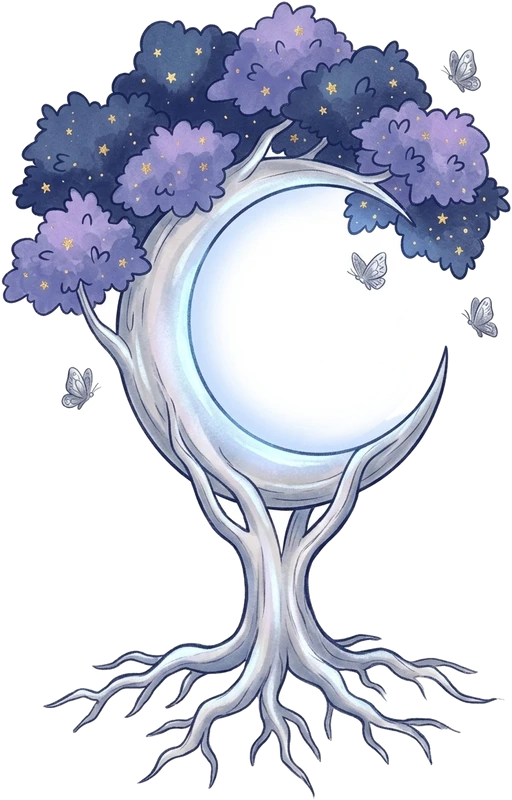
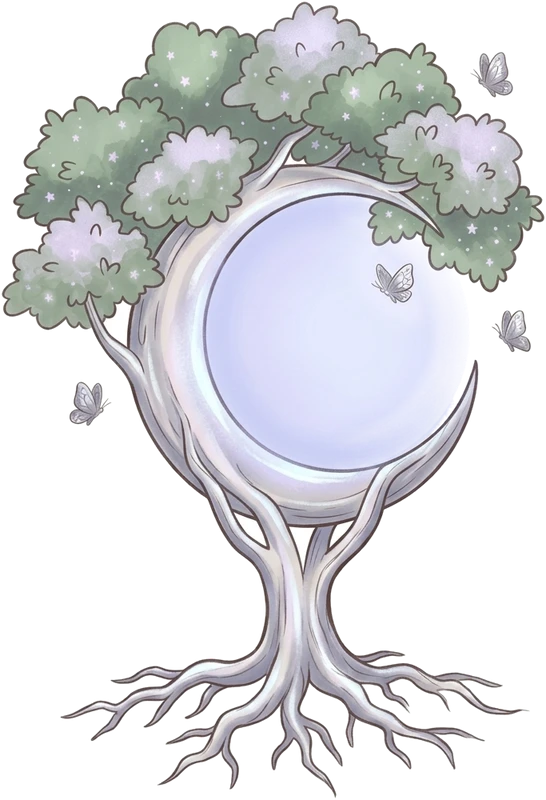
Build 400: Moon Tree redrawn in the game's style + a living night sky in the moon (Maria: «выглядит странно, будто не от сюда», then «Мне не нравится это белое в луне. Оно должно как-то анимироваться ... Крутится там внутри него»): new picture (SYNTX banana2 with the oak and the gold tree as style r

diff --git a/js/game.js b/js/game.js
@@ -2,12 +2,12 @@
 import {
   OFFLINE_CAP_SEC, MAX_DESKS, MAX_ITEM_LEVEL, MAX_TEACHER_LEVEL, MAX_TIME_LEVEL,
   CLASSES, SPECIES, NAMES, MISSIONS, WORLDS, WORLD, META,
-} from './data.js?v=399';
-import { EMOJI_RE, emojiImage, preloadEmoji, watchEmoji, emojiHtml } from './emoji.js?v=399';
-import { initMinigame } from './minigame.js?v=399';
-import { initChests } from './chests.js?v=399';
-import { initLore } from './lore.js?v=399';
-import { initAvatar } from './avatar.js?v=399';
+} from './data.js?v=400';
+import { EMOJI_RE, emojiImage, preloadEmoji, watchEmoji, emojiHtml } from './emoji.js?v=400';
+import { initMinigame } from './minigame.js?v=400';
+import { initChests } from './chests.js?v=400';
+import { initLore } from './lore.js?v=400';
+import { initAvatar } from './avatar.js?v=400';
 // mini-game «Зельеварка» (match-3, js/minigame.js): a pill on the main screen, its own overlay; the school keeps living under it
 const MG = initMinigame({ state: () => S, earn: (n) => earn(n), save: () => save(), toast: (t) => toast(t), fmt: (n) => fmt(n), emojiHtml, emojiImage,
   audioOut: () => { if (!sfxOn() || document.hidden) return null; const c = audio(); return c && c.state === 'running' ? { c, out: AOUT } : null; },
@@ -30,7 +30,7 @@ const LORE = initLore({ state: () => S, save: () => save(), emojiHtml, on: () =>
 const SAVE_KEY = WORLD === 1 ? 'magicschool.save.v2' : 'magicschool.save.v2.w' + WORLD;   // every world keeps its own save
 const saveKeyOf = (w) => (w === 1 ? 'magicschool.save.v2' : 'magicschool.save.v2.w' + w);
 const VERSION = '0.9';
-const BUILD = 399;   // keep equal to the ?v= number in index.html
+const BUILD = 400;   // keep equal to the ?v= number in index.html
 const $ = (s, r = document) => r.querySelector(s);
 const rnd = (a) => a[Math.floor(Math.random() * a.length)];
 
@@ -2797,7 +2797,7 @@ function outShadow(c, o) {   // the cast shadow of an outdoor object on the gras
 // per tree picture (measured on the sprites at 160 px): cut = share of the height cut from the bottom (where the roots spread),
 // x = trunk centre at the cut (0..1 of the width), mw = mound width (share of the tree width)
 const TREE_GROUND = { oak: { cut: 0.17, x: 0.52, mw: 0.5 }, fir: { cut: 0.14, x: 0.5, mw: 0.4 }, willow: { cut: 0.17, x: 0.49, mw: 0.42 },
-  blossom: { cut: 0.18, x: 0.47, mw: 0.46 }, goldtree: { cut: 0.18, x: 0.55, mw: 0.44 }, moontree: { cut: 0.17, x: 0.565, mw: 0.42 } };
+  blossom: { cut: 0.18, x: 0.47, mw: 0.46 }, goldtree: { cut: 0.18, x: 0.55, mw: 0.44 }, moontree: { cut: 0.17, x: 0.55, mw: 0.42 } };
 const SOIL = [0, 1].map((k) => { const im = new Image(); im.onload = () => { staticKey = ''; partsVer++; }; im.src = `assets/parts/outdoor/soil_${k}.webp?v=1`; return im; });
 // ======================= the Moon Tree by the gate (tester «землитексту рко» №73po7zf1: «Возле входа у главных ворот школы нужно поставить
 // особенное красивое дерево ... на нём могут вырастать плоды иногда»; Maria's pick «3» Лунное древо, look «Справа в виде луны») =======================
@@ -2818,18 +2818,42 @@ function stepMoon() {   // growth from the night minutes since the last look (ch
   if (M.f >= MOON_MAX) M.acc = 0;
 }
 let moonRect = null;
-const MOON_FRUIT = [[0.33, 0.2], [0.56, 0.1], [0.8, 0.19]];   // spots in the crown (share of the picture's width / height)
+const MOON_FRUIT = [[0.28, 0.21], [0.57, 0.08], [0.85, 0.19]];   // spots in the crown (share of the picture's width / height)
+// the disc inside the crescent is a window into the night sky: nebula clouds turn slowly, stars circle and twinkle (her «Мне не нравится
+// это белое в луне. Оно должно как-то анимироваться ... Крутится там внутри него»); drawn in depth order right over the tree picture
+const moonNeb = [0, 1].map((seed) => {   // two cloud layers, made once
+  const c = document.createElement('canvas'); c.width = c.height = 128; const x = c.getContext('2d');
+  if (!seed) { const g = x.createRadialGradient(64, 64, 4, 64, 64, 64); g.addColorStop(0, '#2c2f7a'); g.addColorStop(0.6, '#4b4aa8'); g.addColorStop(1, '#9d8fe0'); x.fillStyle = g; x.fillRect(0, 0, 128, 128); }
+  let s = seed * 97 + 13; const r = () => ((s = (s * 9301 + 49297) % 233280) / 233280);
+  const cols = seed ? ['255,170,230', '150,220,255', '255,255,255'] : ['190,150,255', '120,200,255', '255,180,240'];
+  for (let k = 0; k < 9; k++) { const a = r() * 6.28, d = 14 + r() * 40, px = 64 + Math.cos(a) * d, py = 64 + Math.sin(a) * d, rr = 14 + r() * 26, g = x.createRadialGradient(px, py, 0, px, py, rr);
+    g.addColorStop(0, `rgba(${cols[k % 3]},${seed ? 0.45 : 0.55})`); g.addColorStop(1, `rgba(${cols[k % 3]},0)`); x.fillStyle = g; x.fillRect(0, 0, 128, 128); }
+  return c;
+});
+const moonOff = document.createElement('canvas'); moonOff.width = moonOff.height = 128;
+function drawMoonDisc(cx, cy, r, T) {
+  const x = moonOff.getContext('2d'); x.globalCompositeOperation = 'source-over'; x.globalAlpha = 1; x.clearRect(0, 0, 128, 128);
+  x.save(); x.translate(64, 64); x.rotate(T * 0.12); x.drawImage(moonNeb[0], -64, -64); x.restore();
+  x.save(); x.translate(64, 64); x.rotate(-T * 0.21); x.globalAlpha = 0.8; x.drawImage(moonNeb[1], -64, -64); x.restore();
+  x.globalAlpha = 1; x.fillStyle = '#fff';
+  for (let k = 0; k < 18; k++) { const f = ((k * 0.618) % 1), a = k * 2.4 + T * (0.08 + (k % 3) * 0.05), d = 8 + f * 50, tw = 0.5 + 0.5 * Math.sin(T * 2.3 + k * 1.7), sz = 0.7 + tw * (k % 4 ? 1 : 1.8);
+    x.globalAlpha = 0.45 + 0.55 * tw; x.beginPath(); x.arc(64 + Math.cos(a) * d, 64 + Math.sin(a) * d, sz, 0, Math.PI * 2); x.fill(); }
+  x.globalAlpha = 1; x.globalCompositeOperation = 'destination-in';   // soft rim: the sky melts into the moonstone edge
+  const m = x.createRadialGradient(64, 64, 0, 64, 64, 64); m.addColorStop(0, 'rgba(0,0,0,1)'); m.addColorStop(0.8, 'rgba(0,0,0,1)'); m.addColorStop(1, 'rgba(0,0,0,0)'); x.fillStyle = m; x.fillRect(0, 0, 128, 128);
+  ctx.drawImage(moonOff, cx - r, cy - r, r * 2, r * 2);
+}
 let moonFx = null;   // where the tree was drawn this frame: its glow and fruits go on top after the night tint (drawMoonFx)
 function drawMoonTree(o, p, w, h) {
   const top = p.y + h * 0.05 - h;
   moonRect = { x0: p.x - w * 0.45, y0: top, x1: p.x + w * 0.45, y1: p.y, t: performance.now() };
+  drawMoonDisc(p.x - w / 2 + 0.608 * w, top + 0.415 * h, 0.236 * w, performance.now() / 1000);   // the living night sky inside the crescent
   moonFx = { p, w, h, top };
 }
 function drawMoonFx() {   // after drawDayNight: the moon disc glows at night, ripe fruits shine in the crown (day or night)
   const f = moonFx; moonFx = null; if (!f || WORLD !== 1) return;
   const { p, w, h, top } = f, T = performance.now() / 1000, D = dayTint(), tt = D.sun.map((v, i) => (v + D.shade[i]) / 2), L = Math.min(1, Math.max(0, 1 - (tt[0] + tt[1] + tt[2]) / 765) * 2.2);
   ctx.save(); ctx.globalCompositeOperation = 'lighter';
-  if (L > 0.05) { ctx.globalAlpha = L * (0.55 + 0.12 * Math.sin(T * 1.3)); const r = w * 0.5; ctx.drawImage(glowSprite('150,185,255'), p.x - w / 2 + 0.58 * w - r, top + 0.4 * h - r, r * 2, r * 2); }
+  if (L > 0.05) { ctx.globalAlpha = L * (0.55 + 0.12 * Math.sin(T * 1.3)); const r = w * 0.5; ctx.drawImage(glowSprite('150,185,255'), p.x - w / 2 + 0.61 * w - r, top + 0.415 * h - r, r * 2, r * 2); }
   const n = (S.moon && S.moon.f) || 0, rr = Math.max(4, w * 0.045);
   for (let k = 0; k < n; k++) { const [u, v] = MOON_FRUIT[k], x = p.x - w / 2 + u * w, y = top + v * h; ctx.globalAlpha = 0.75 + 0.2 * Math.sin(T * 2 + k * 2); ctx.drawImage(glowSprite('190,215,255'), x - rr * 3.5, y - rr * 3.5, rr * 7, rr * 7); }
   ctx.restore();

diff --git a/index.html b/index.html
@@ -12,7 +12,7 @@
 <link rel="manifest" href="manifest.webmanifest">
 <link rel="apple-touch-icon" href="icons/icon-180.png?v=2">
 <link rel="icon" href="icons/icon-192.png?v=2">
-<link rel="stylesheet" href="style.css?v=399">
+<link rel="stylesheet" href="style.css?v=400">
 <script>/* iOS home-screen app: innerHeight / 100% / 100dvh are short by the status bar, a strip stayed at the bottom (her screenshots, builds 200-203); use the real screen height */
 (function(){function fit(){if(!(navigator.standalone||matchMedia('(display-mode: standalone)').matches))return;var h=Math.max(window.innerHeight,(Math.abs(window.orientation||0)===90?screen.width:screen.height));var r=document.documentElement;r.style.height=h+'px';if(document.body){document.body.style.height=h+'px';document.body.style.bottom='auto';}}fit();addEventListener('DOMContentLoaded',fit);addEventListener('resize',fit);addEventListener('orientationchange',function(){setTimeout(fit,300);});})();</script>
 </head>
@@ -72,6 +72,6 @@ setTimeout(function(){ if (window.__booted) return; var d=document.createElement
   d.querySelector('button').onclick=function(){ location.reload(); }; document.body.appendChild(d); }, 12000);
 if(!CanvasRenderingContext2D.prototype.roundRect){CanvasRenderingContext2D.prototype.roundRect=function(x,y,w,h){this.rect(x,y,w,h);};}
 </script>
-<script type="module" src="js/game.js?v=399"></script>
+<script type="module" src="js/game.js?v=400"></script>
 </body>
 </html>

diff --git a/js/emoji.js b/js/emoji.js
@@ -1,6 +1,6 @@
 // One emoji look on every device: emoji characters are replaced by bundled Twemoji pictures
 // (CC-BY 4.0, https://github.com/jdecked/twemoji), both in the page (DOM) and on the canvas.
-import { EMOJI_FILES } from './emoji-set.js?v=399';
+import { EMOJI_FILES } from './emoji-set.js?v=400';
 
 export const EMOJI_RE = /\p{Extended_Pictographic}(?:|\p{Extended_Pictographic}?|[\u{1F3FB}-\u{1F3FF}])*/gu;
 
